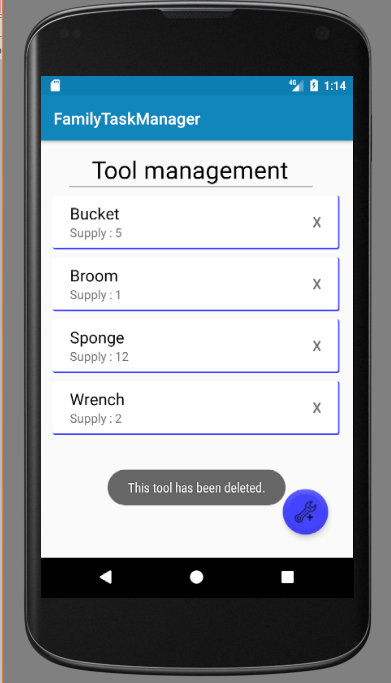
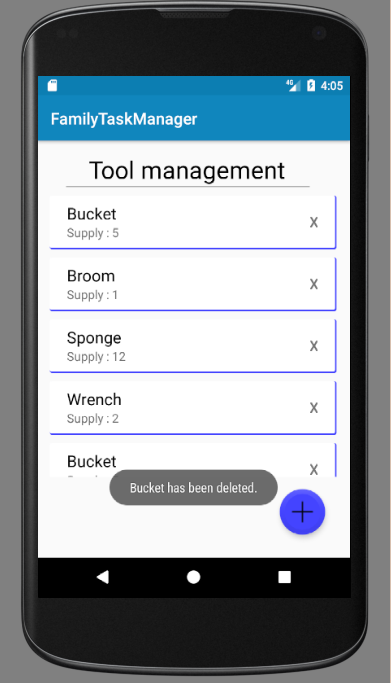
UIs final

diff --git a/FamilyTaskManager/app/src/main/java/familytaskmanager/microso/com/familytaskmanager/ToolListAdapter.java b/FamilyTaskManager/app/src/main/java/familytaskmanager/microso/com/familytaskmanager/ToolListAdapter.java
@@ -13,6 +13,8 @@ import android.widget.LinearLayout;
 import android.widget.TextView;
 import android.widget.Toast;
 
+import org.w3c.dom.Text;
+
 import java.util.ArrayList;
 
 /**
@@ -40,27 +42,25 @@ public class ToolListAdapter extends ArrayAdapter<Tool> {
         TextView supplyView = (TextView) rowView.findViewById(R.id.toolListItemNbr);
         Button btnDelete = (Button) rowView.findViewById(R.id.delete);
         nameView.setText(selected_tool.getName());
+        btnDelete.setId(selected_tool.getId()); // Set le même id aux buttons que leur tool (item) correspondant.
         supplyView.setText(Integer.toString(selected_tool.getSupply()));
         btnDelete.setOnClickListener(new View.OnClickListener() {
             public void onClick(View v) {
-                /*
-                   Je suis pas capable d'aller chercher quel bouton a été cliquer. En sachant quel bouton a été cliquer,
-                   nous serions capable de savoir quel item to delete. En sachant quel item to delete on pourrait
-                   l'envoyer dans la fonction areYouSure(Tool toolToDelete).
-                 */
-                areYouSure(selected_tool); // Selected tool is not the one we're looking for.
+                Tool s_tool = tools.get((v.getId() - 1)); // Va chercher le tool correspondant dans la liste de tools. (à améliorer)
+
+                areYouSure(s_tool); // Selected tool is not the one we're looking for.
             }
         });
         return rowView;
     }
 
-    private void areYouSure(Tool toolToDelete) {
+    private void areYouSure(final Tool toolToDelete) {
         AlertDialog.Builder builder = new AlertDialog.Builder(this.getContext());
         builder.setTitle("Are you sure you want to delete this tool ? ");
         builder.setPositiveButton(android.R.string.yes, new DialogInterface.OnClickListener() {
             public void onClick(DialogInterface dialog, int id) {
                 //TODO
-                Toast.makeText(context, "This tool has been deleted.", Toast.LENGTH_SHORT).show();
+                Toast.makeText(context, toolToDelete.getName() + " has been deleted.", Toast.LENGTH_SHORT).show();
                 dialog.dismiss();
             }
         });

diff --git a/FamilyTaskManager/app/src/main/java/familytaskmanager/microso/com/familytaskmanager/ToolActivity.java b/FamilyTaskManager/app/src/main/java/familytaskmanager/microso/com/familytaskmanager/ToolActivity.java
@@ -32,6 +32,14 @@ public class ToolActivity extends AppCompatActivity {
         tools.add(new Tool(2, "Broom", 1));
         tools.add(new Tool(3, "Sponge", 12));
         tools.add(new Tool(4, "Wrench", 2));
+        tools.add(new Tool(5, "Bucket", 5));
+        tools.add(new Tool(6, "Broom", 1));
+        tools.add(new Tool(7, "Sponge", 12));
+        tools.add(new Tool(8, "Wrench", 2));
+        tools.add(new Tool(9, "Bucket", 5));
+        tools.add(new Tool(10, "Broom", 1));
+        tools.add(new Tool(11, "Sponge", 12));
+        tools.add(new Tool(12, "Wrench", 2));
 
         ToolListAdapter adapter = new ToolListAdapter(this, tools);
         listView.setAdapter(adapter);
